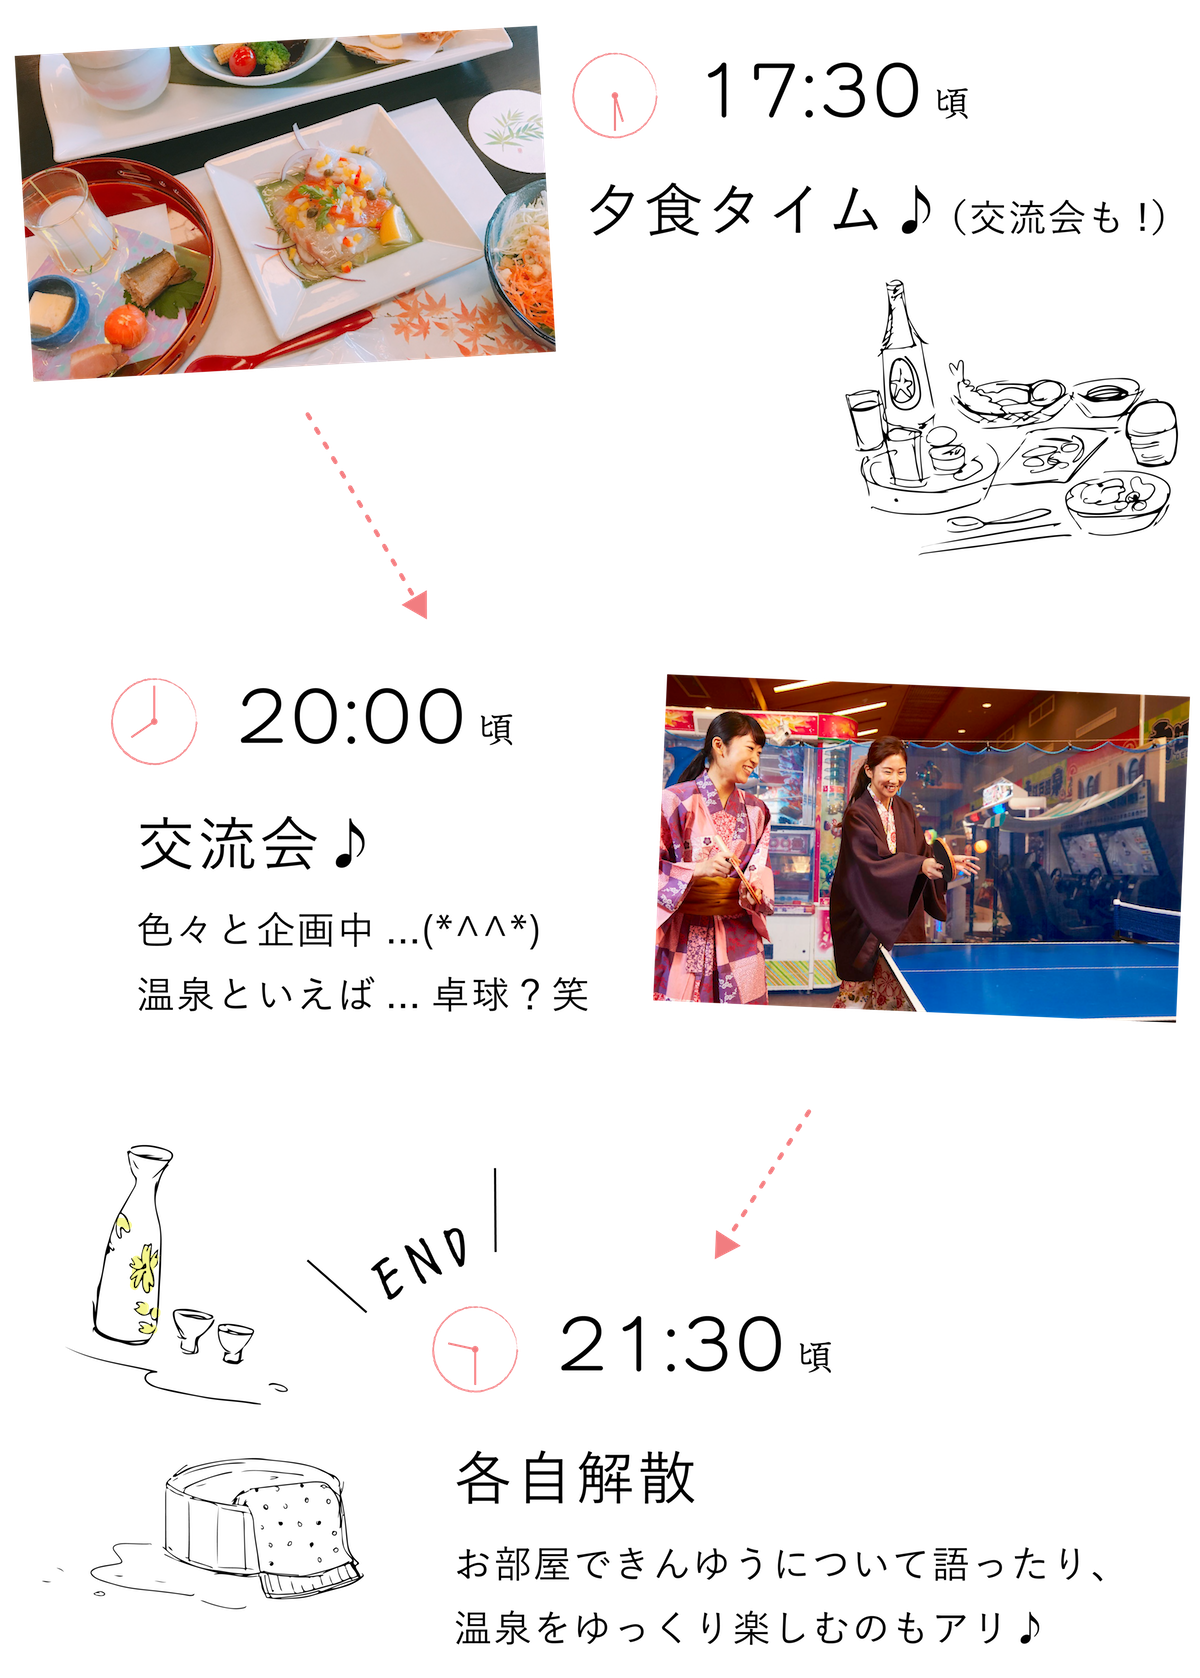
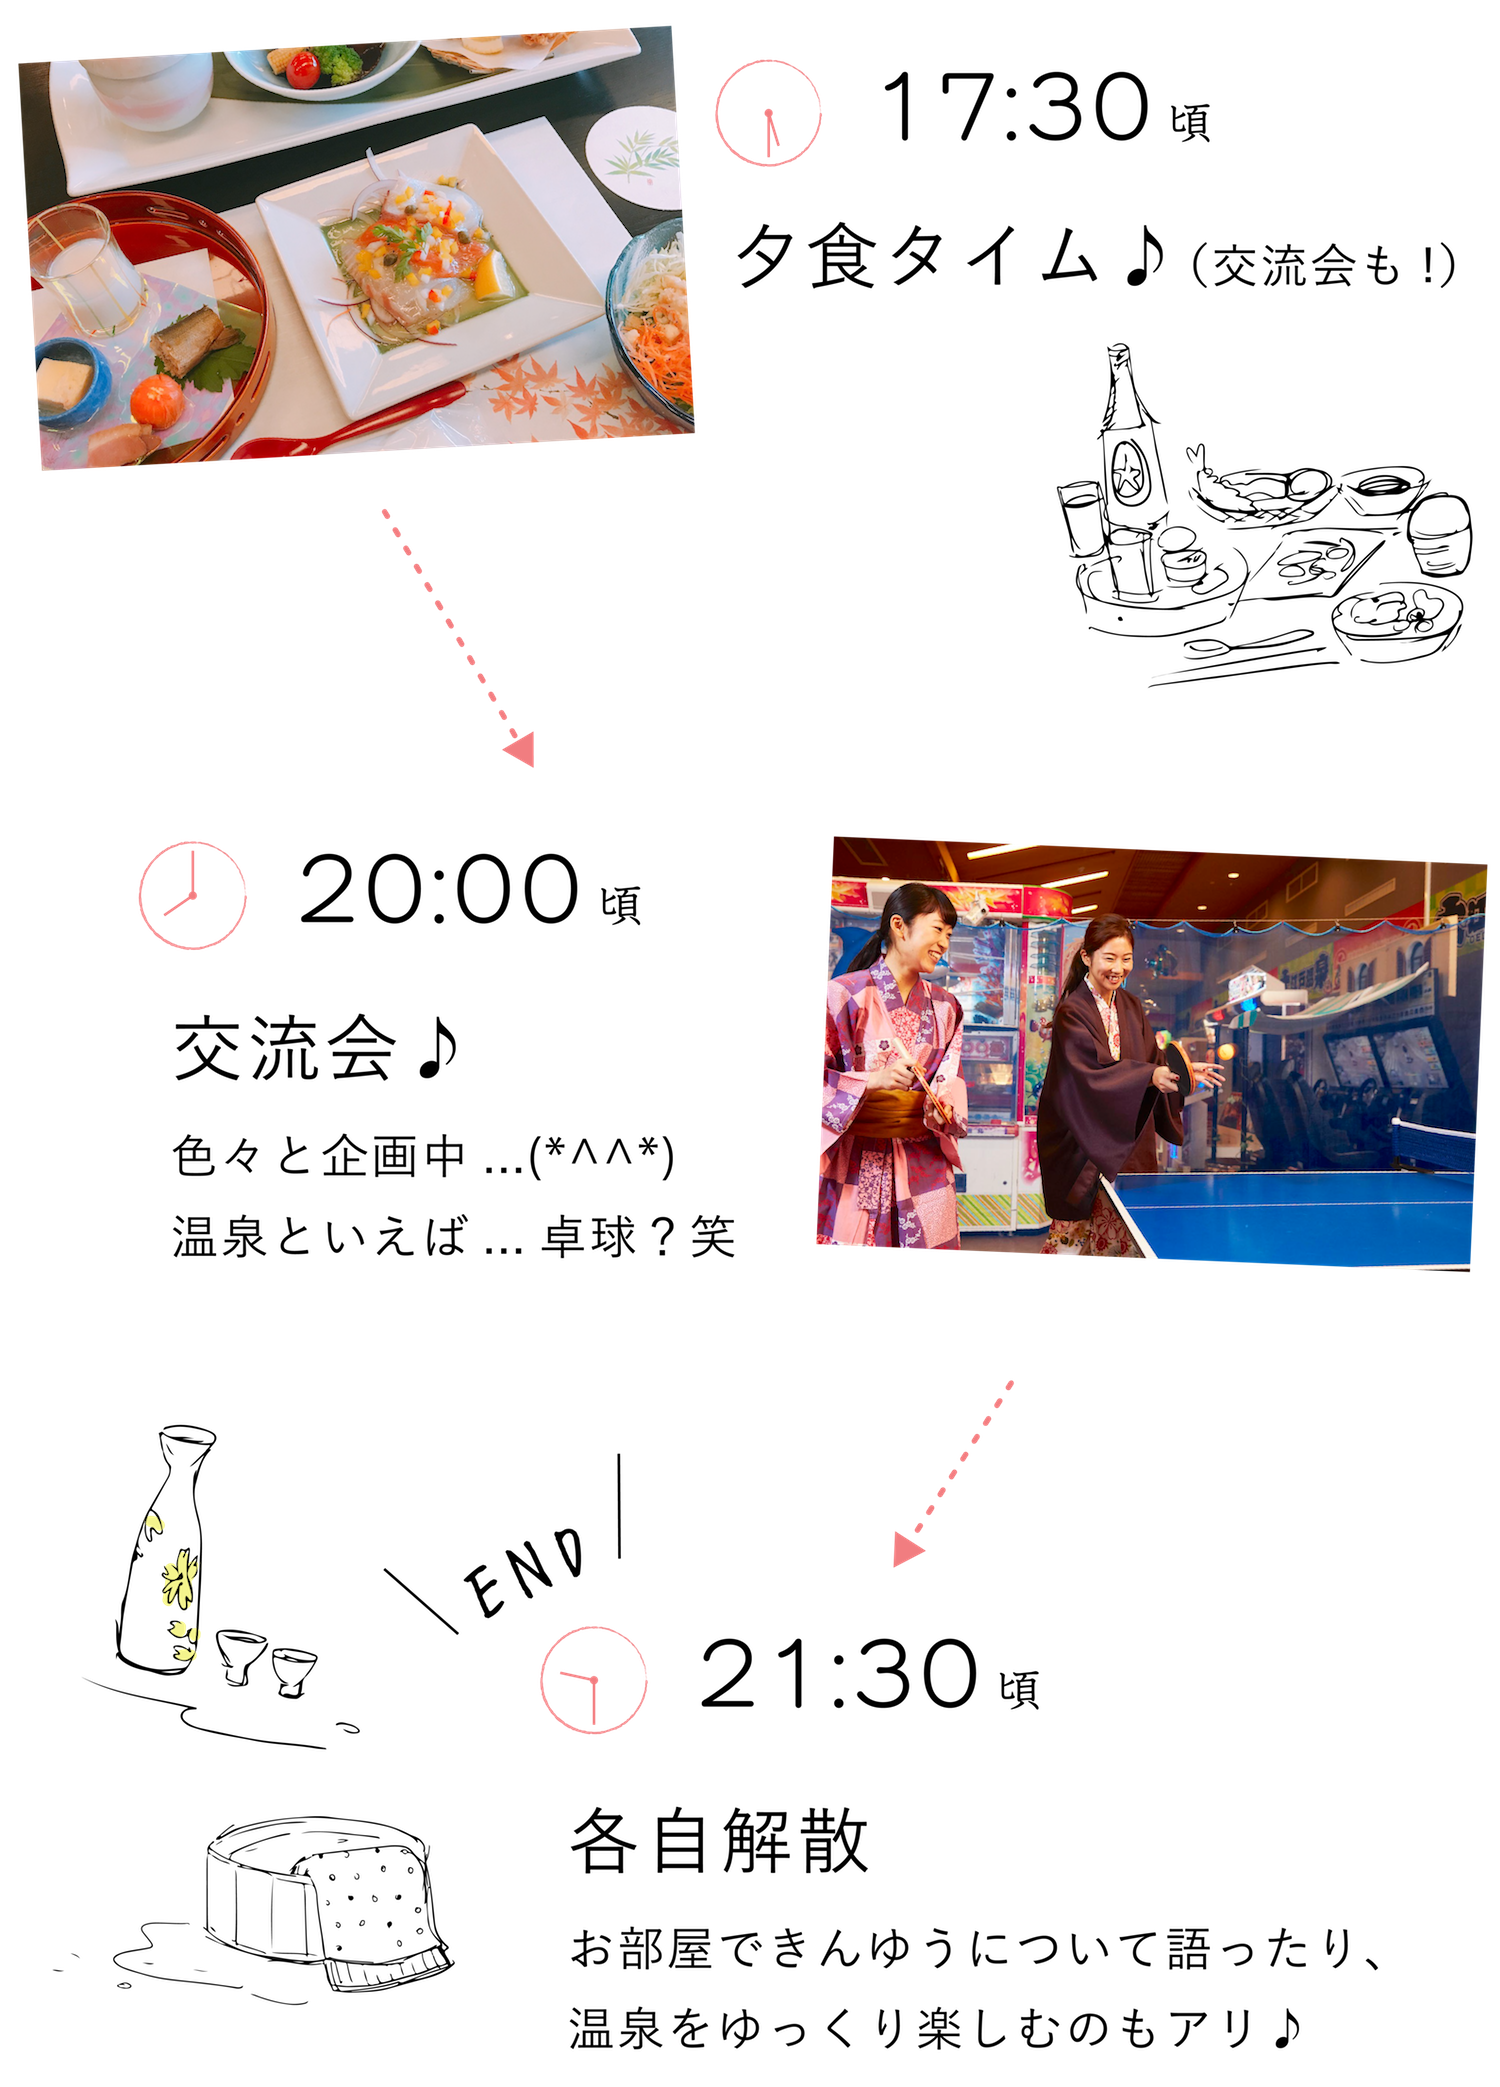
fix

diff --git a/web/public/assets/css/kinyu/campaign/ooedoonsen_joshikai2018.css b/web/public/assets/css/kinyu/campaign/ooedoonsen_joshikai2018.css
@@ -278,11 +278,14 @@
 .oj2018-joshikai-el .cafe-illust {
 	width: 230px;
 	position: absolute;
-	right: 60px;
-  bottom: 50px;
+	right: 0px;
+  bottom: -30px;
 }
 
 /* 2カラムボックス */
+.joshikai-contents-el {
+	position: relative;
+}
 .joshikai-contents-el .img-box {
 	height: 220px;
 	width: 35%;
@@ -340,9 +343,9 @@
 .day2-el .joshikai-date {
 	border-top: 1px solid #f57d80;
 	border-bottom: 1px solid #f57d80;
+	position: relative;
 }
 .day2-el .joshikai-date .link {
-	text-decoration: underline;
 	color: #4ba0e0;
 }
 .day2-el .joshikai-date .main-date span {
@@ -395,6 +398,19 @@
 .day2-contents-detail-el .img-description {
 	text-align: right;
 	margin-top: 24px;
+}
+
+.joshikai-contents-el .day1-illust-balloon {
+	width: 180px;
+	position: absolute;
+	right: -45px;
+  top: -45px;
+}
+.day2-el .joshikai-date .day2-illust-balloon {
+	width: 175px;
+	position: absolute;
+  right: -20px;
+  top: -5px;
 }
 
 /* 伊東の観光部分 */
@@ -461,11 +477,14 @@
 
 /* アクセスエリア */
 .day2-contents-detail-access {
-	padding: 50px 0px;
+	padding: 24px 0px 50px;
 }
 .day2-contents-detail-access .main-title {
-	font-size: 18px;
-	margin-bottom: 24px;
+	font-size: 15px;
+	margin-bottom: 16px;
+}
+.day2-contents-detail-access .main-title span {
+	font-size: 13px;
 }
 .day2-contents-detail-access li {
 	margin-bottom: 24px;
@@ -479,9 +498,29 @@
 	margin-bottom: 6px;
 }
 .day2-contents-detail-access .access-list {
-	font-size: 14px;
-	line-height: 24px;
+	font-size: 13px;
+	line-height: 22px;
 }
+
+/* 注意書き部分 */
+.joshikai-attention {
+	border-left:1px solid #ffb7bc;
+	border-right:1px solid #ffb7bc;
+	width: 80%;
+	margin: 0 auto;
+	padding: 4px 0px;
+	margin-top: 50px;
+}
+.joshikai-attention .attention-title {
+	font-size: 16px;
+	font-weight: bold;
+	margin-bottom: 8px;
+}
+.joshikai-attention .attention-description {
+	font-size: 13px;
+  line-height: 20px;
+}
+
 
 
 /*-*-*-*-*-*-*-*-*-*-*-*-*-*-*-*-*-*-
@@ -649,7 +688,7 @@
 }
 .fee-detail-el .date-title {
 	font-size: 16px;
-	margin-top: 2px;
+	margin-top: 8px;
 	margin-bottom: 8px;
 }
 .fee-detail-el .date-title span {
@@ -660,6 +699,41 @@
 	line-height: 24px;
 	margin-top: 12px;
 }
+.fee-detail-el .joshikai-title span {
+	font-size: 12px;
+}
+.fee-block-privilege {
+  border-top: 1px solid #6b9fcd;
+  border-bottom: 1px solid #6b9fcd;
+  width: 45%;
+  margin: 0 auto;
+  padding: 12px 40px;
+  margin-top: 24px;
+  margin-bottom: 40px;
+}
+.fee-block-privilege .main-title {
+	font-size: 13px;
+	font-weight: bold;
+	margin-bottom: 8px;
+}
+.fee-conditions {
+	margin-bottom: 50px;
+}
+.fee-conditions li {
+	margin-bottom: 16px;
+}
+.fee-conditions li:last-child {
+	margin-bottom: 0px;	
+}
+.fee-conditions li .conditions-title {
+	font-size: 15px;
+	font-weight: bold;
+	margin-bottom: 4px;
+}
+.fee-conditions li .conditions-description {
+	font-size: 13px;
+}
+
 
 
 /*-*-*-*-*-*-*-*-*-*-*-*-*-*-*-*-*-*-
@@ -681,6 +755,8 @@
 .joinus-pc-block img {
 	width: 100%;
 }
+
+
 
 
 /*-*-*-*-*-*-*-*-*-*-*-*-*-*-*-*-*-*-
@@ -1193,6 +1269,25 @@
   line-height: 20px;
   color: #4ba0e0;
 }
+
+/* 注意書き部分 */
+.joshikai-attention {
+	width: 100%;
+	margin: 0 auto;
+	padding: 4px 24px;
+	margin-top: 40px;
+}
+.joshikai-attention .attention-title {
+	font-size: 13px;
+	font-weight: bold;
+	margin-bottom: 4px;
+}
+.joshikai-attention .attention-description {
+	font-size: 11px;
+  line-height: 18px;
+}
+
+
 }
 
 /*-*-*-*-*-*-*-*-*-*-*-*-*-*-*-*-*-*-
@@ -1218,7 +1313,7 @@
 }
 .report-link-block a:hover,
 .pre-joshikai-area a:hover {
-	opacity: .3;
+	opacity: .3;zw
 }
 .joinus-pc-block {
 	transition: .5s;
